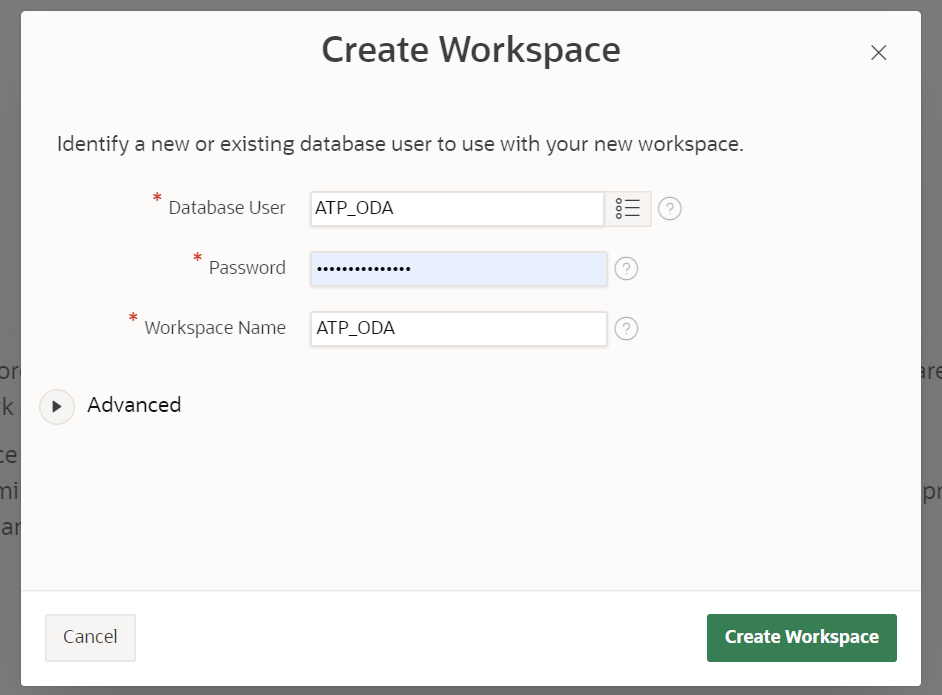
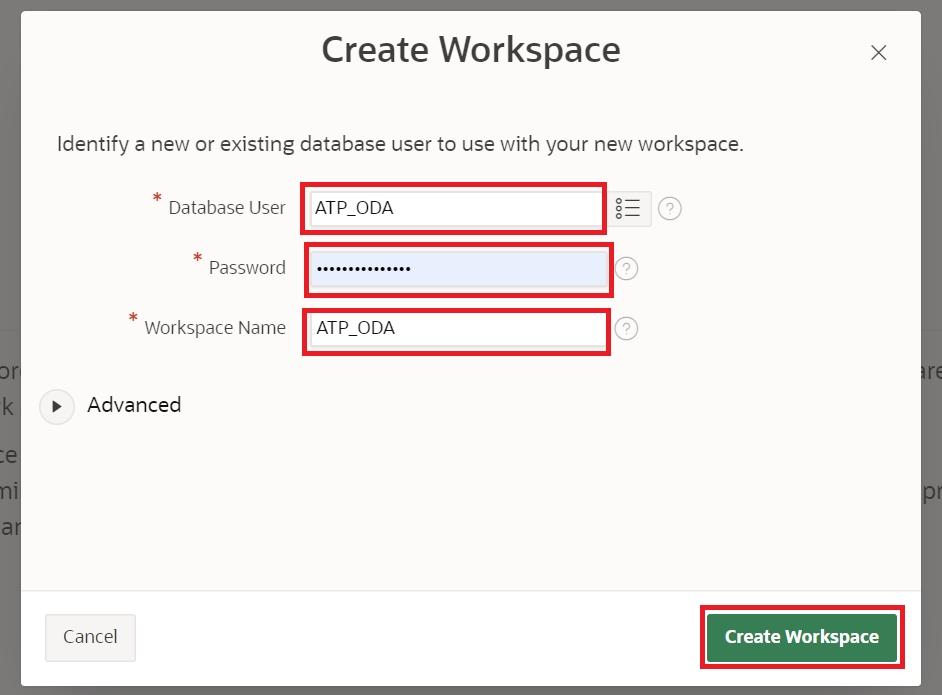
Add coments apex workspace creation.

Changed region(s): [[0.3079, 0.2417, 0.6465, 0.5137], [0.7389, 0.846, 0.9851, 0.9669], [0.6465, 0.3626, 0.6773, 0.423]]

diff --git a/lab2apex/README.md b/lab2apex/README.md
@@ -12,13 +12,38 @@ In this lab you will create a `tasks` table, REST enabling it, and make the serv
 
 ## Create APEX Workspace
 
-In this part of the lab we are creating an APEX workspace. We need to repare the APEX Workspace accesing to APEX Administration Services.
+In this part of the lab we are creating an APEX workspace. From the Autonomous Database Home page go to Tools section and select Oracle Application Express area.
+
 ![ORDS](../images/apex_workspace1.png)
+
+This will open a new browser tab for Application Express Administration.
+Login as the Admin user, with the Admin password you specified at Autonomous Database creation time.
+
 ![ORDS](../images/apex_workspace2.png)
+
+Create the Lab Workspace
+On the Welcome to "Oracle Application Express" page, select Create Workspace.
+
 ![ORDS](../images/apex_workspace3.png)
+
+Use the following information to fill out the form:
+Database User: ATP_ODA
+Password: Any password that meets the Oracle Cloud requirements.
+Workspace Name: ATP_ODA
+Select Create Workspace.
+
 ![ORDS](../images/apex_workspace4.png)
+
+You will be returned to the Oracle APEX administration page, and a message will be displayed "Workspace Created".
+
+Sign in as the WORKSHOPATP user by selecting the icon on the centre of the screen where you can see the name of the user in blue.
+
 ![ORDS](../images/apex_workspace5.png)
+
 ![ORDS](../images/apex_workspace6.png)
+
+Now we are ready to create your APEX application on this workspace.
+
 ![ORDS](../images/apex_workspace7.png)
 
 ## Create a Table with Quick SQL
